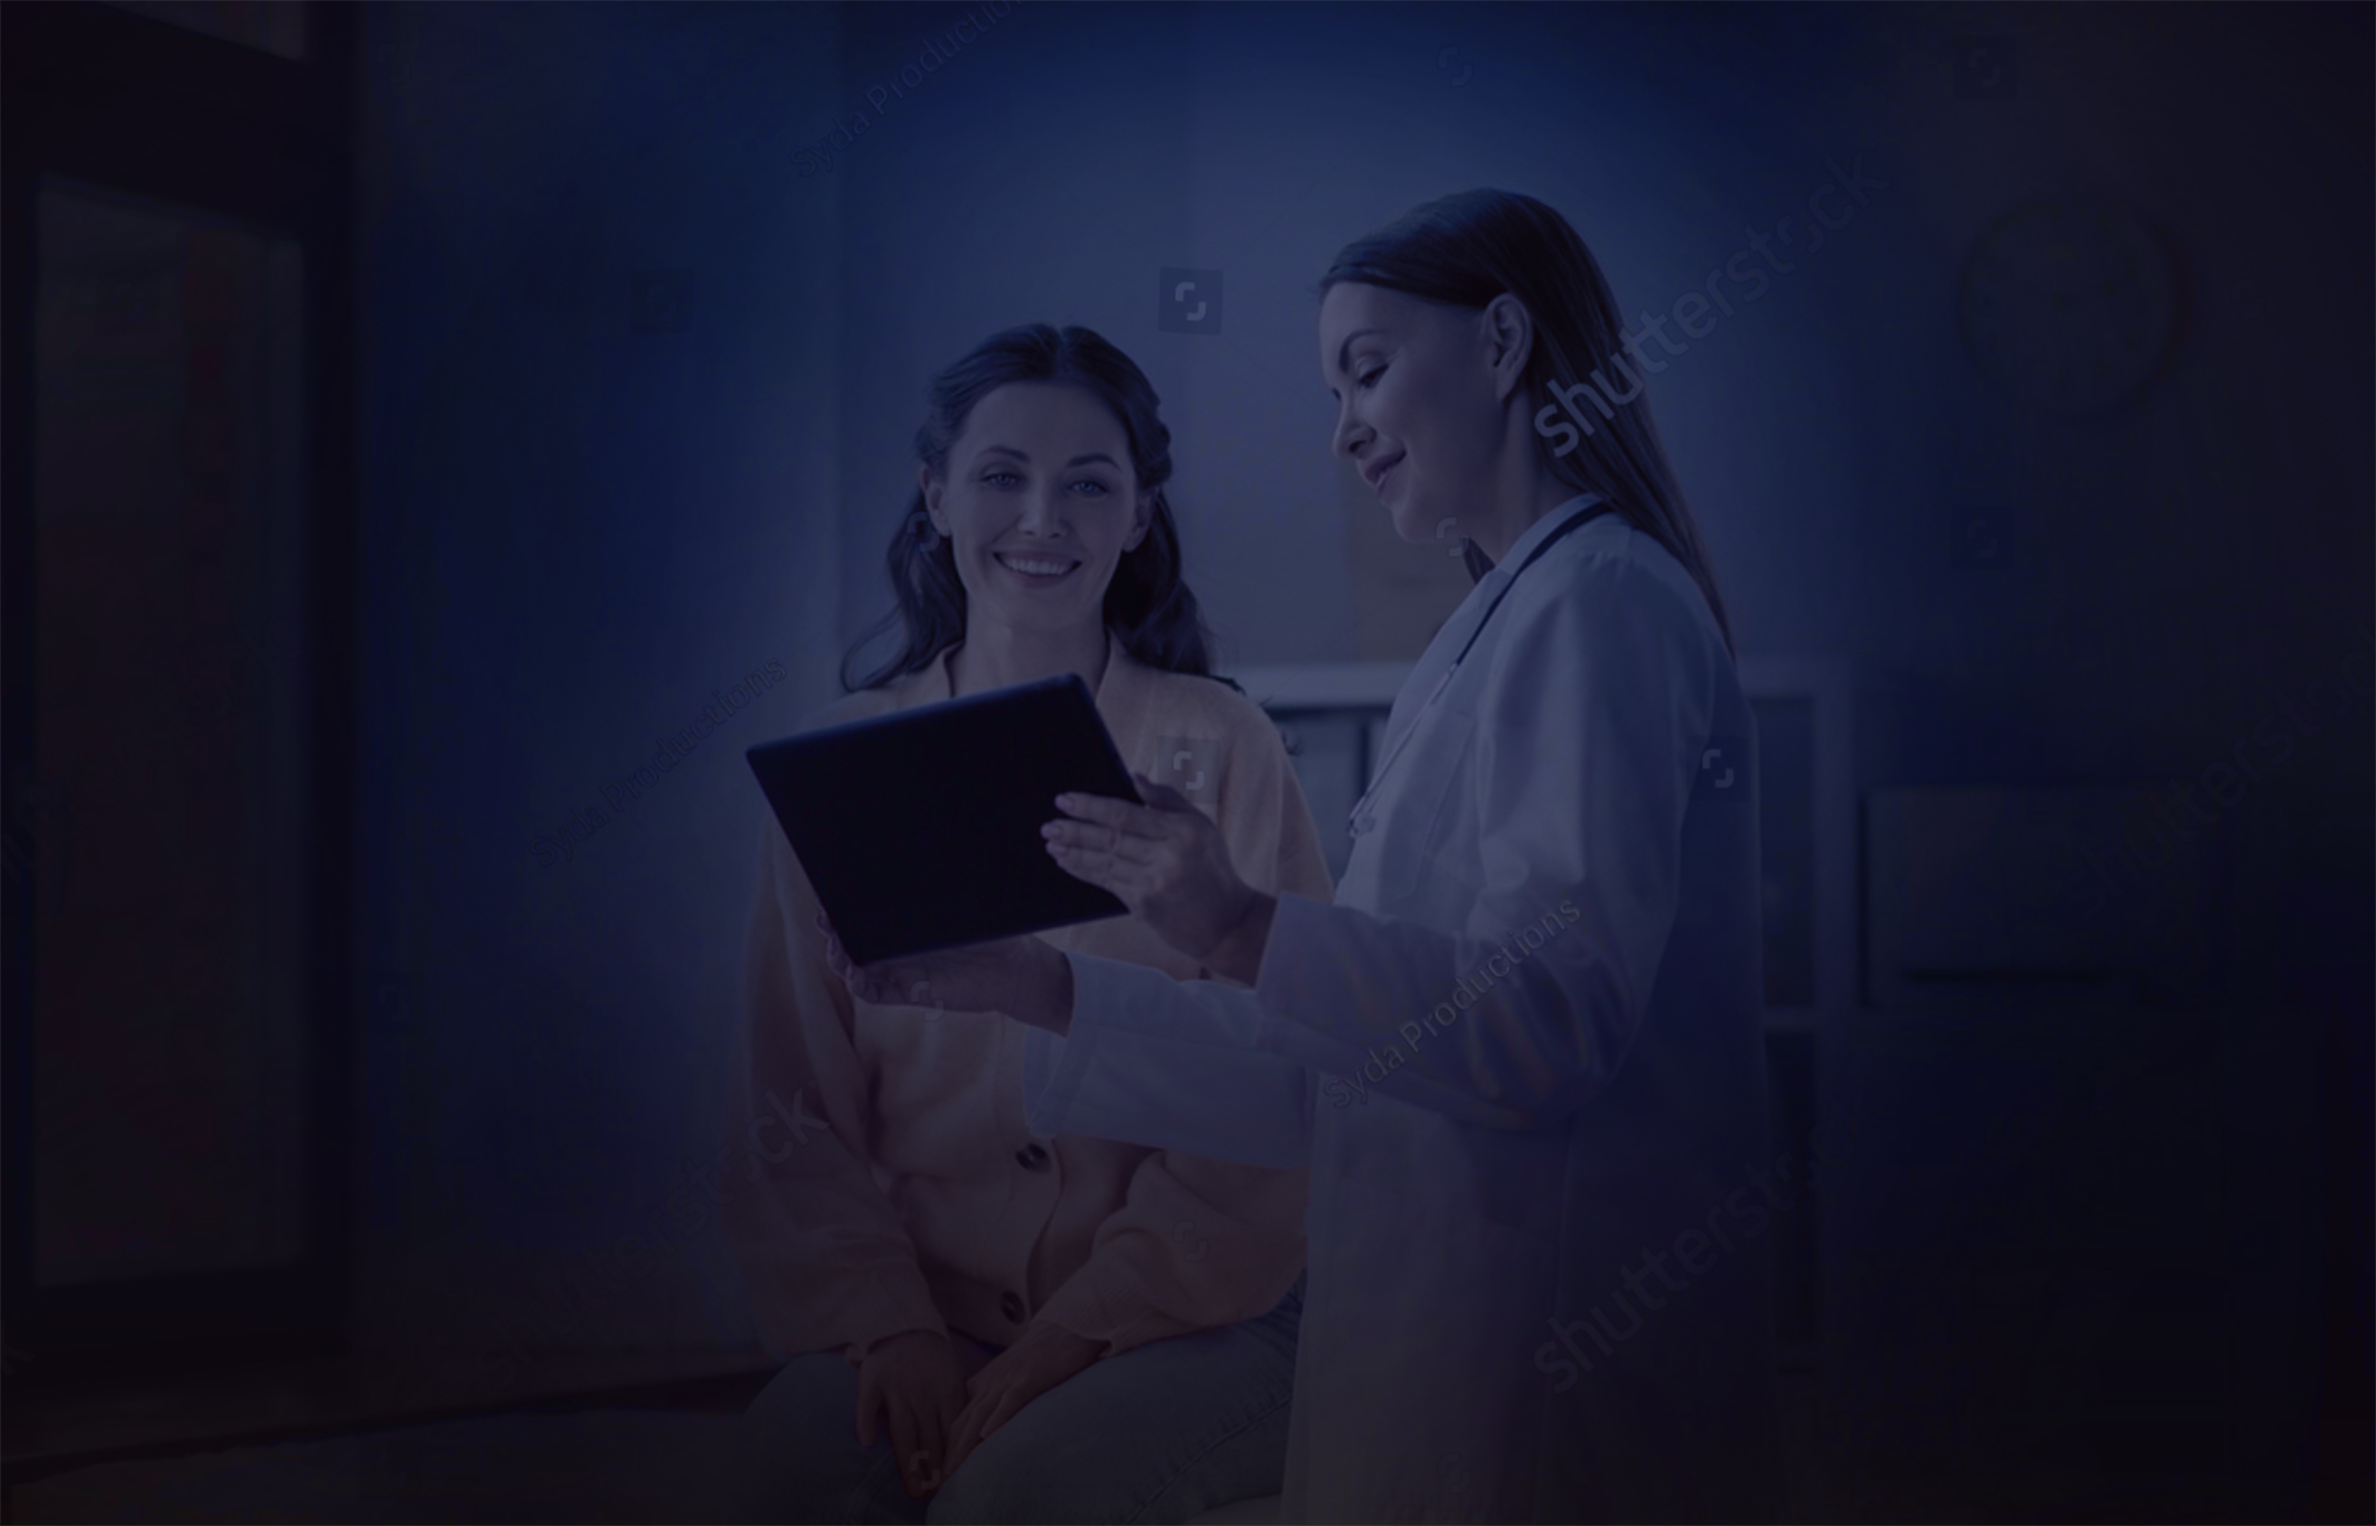
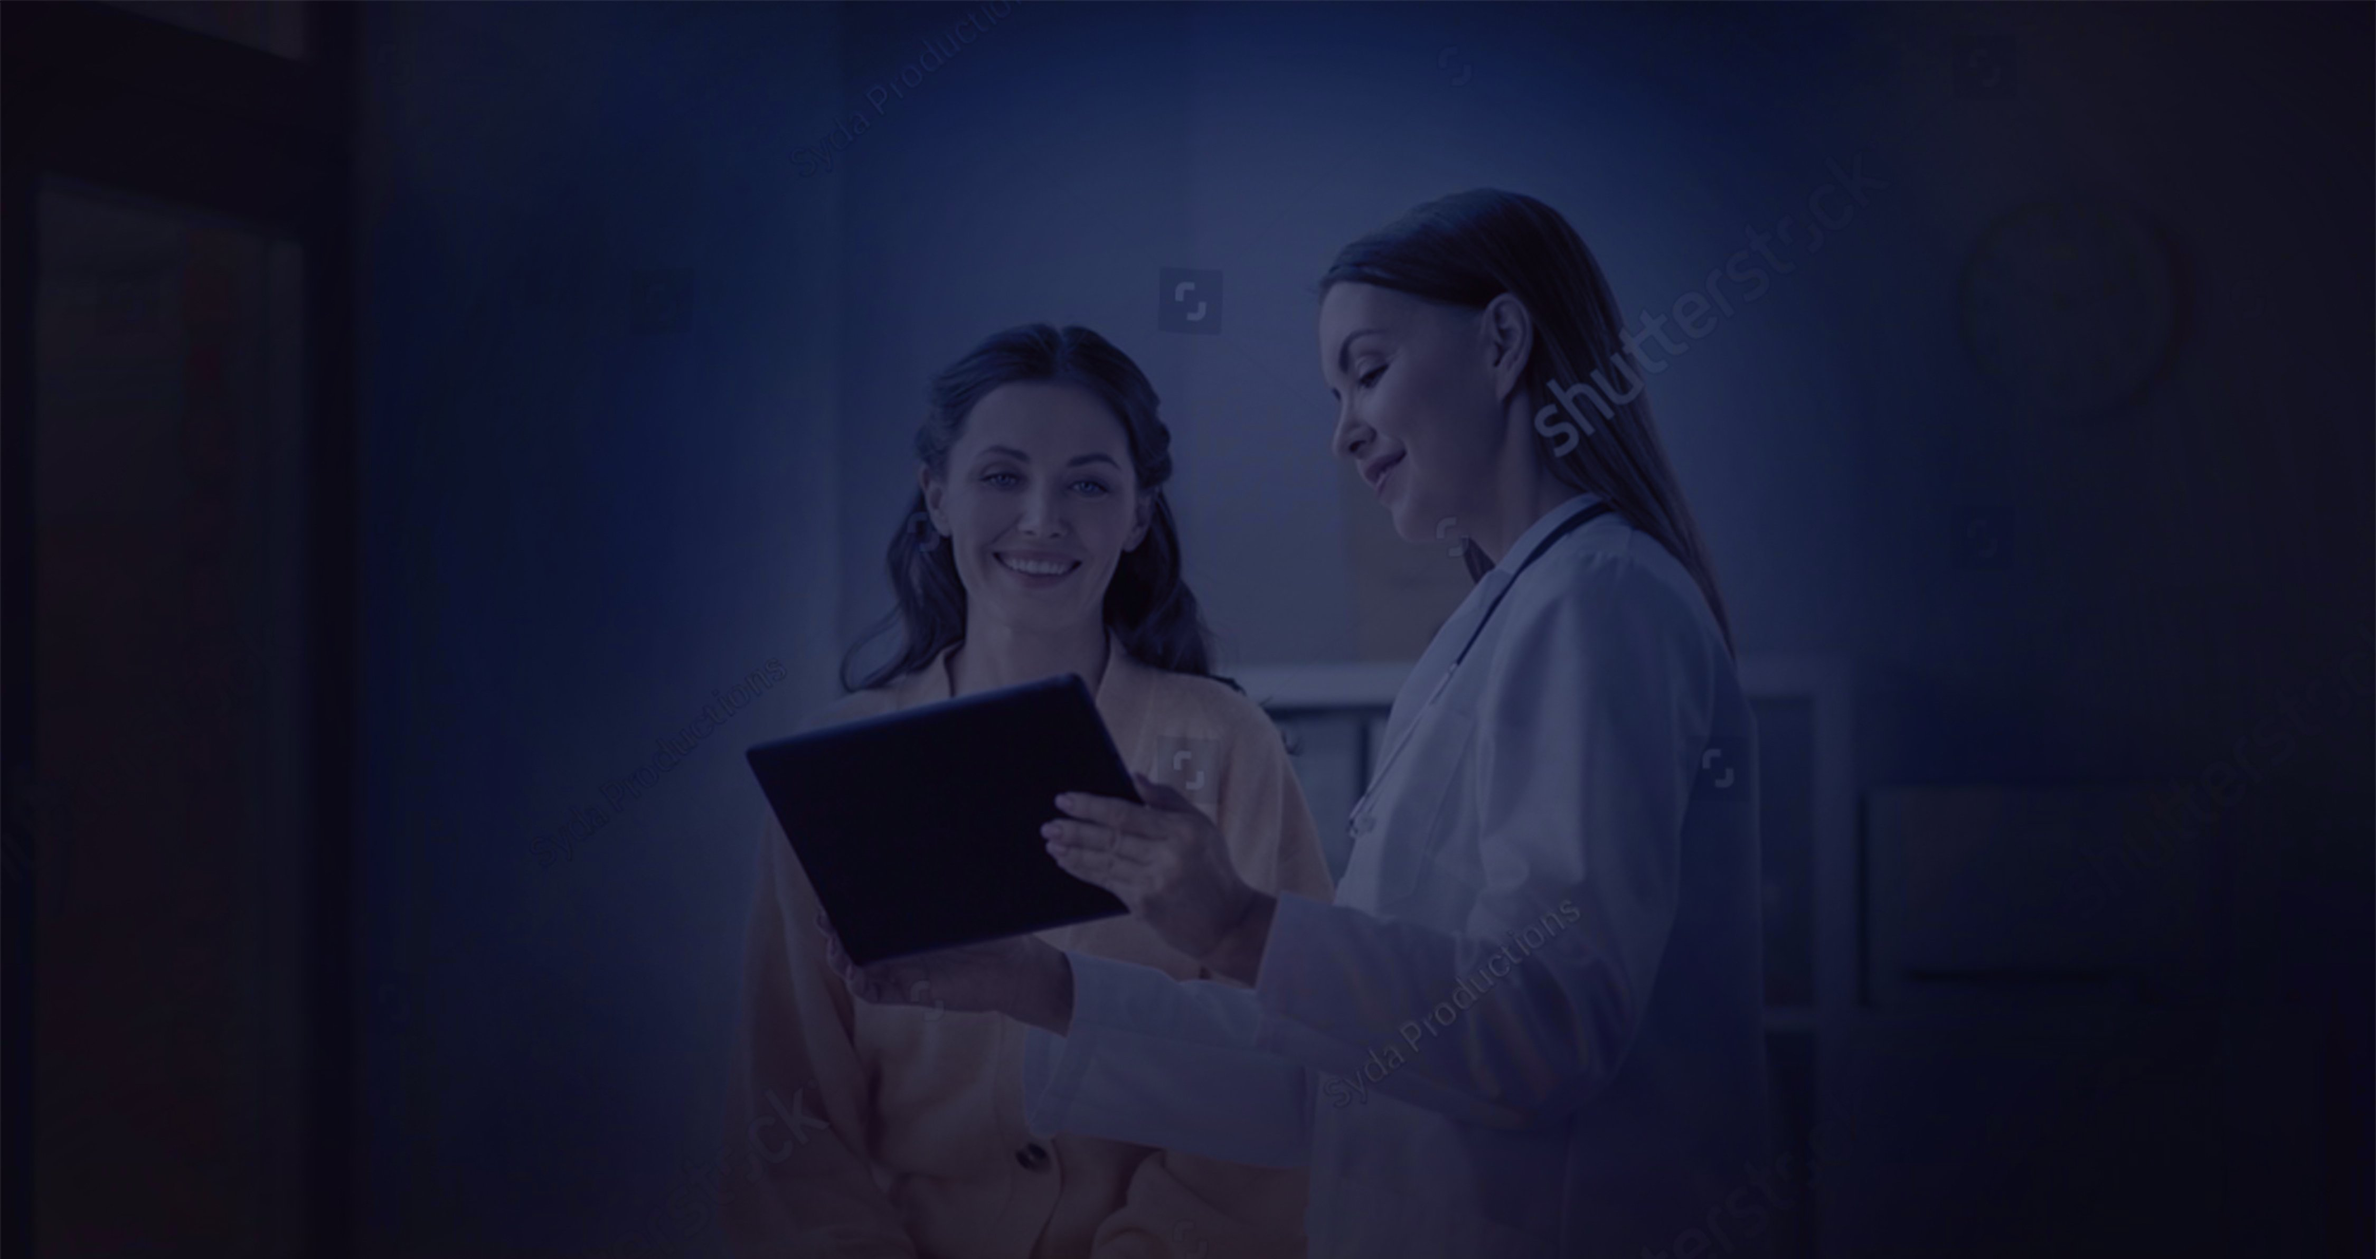
changes

Changed region(s): [[0.3111, 0.1242, 0.7467, 0.9933], [0.2489, 0.9002, 0.3111, 0.9312], [0.4978, 0.6829, 0.5289, 0.7139]]

diff --git a/src/components/Know-more/Hero.jsx b/src/components/Know-more/Hero.jsx
@@ -2,8 +2,8 @@ import React from "react";
 
 function Hero() {
   return (
-    <div className="container-fluid text-center know-more-hero m-auto d-flex align-items-center justify-content-center">
-      <div>
+    <div className="container-fluid  know-more-hero m-auto d-flex align-items-center">
+      <div className="container">
         <h1 className="text-white">Know More</h1>
         <p className="text-white">
           Our services are designed to address a wide range of <br></br>pain issues, from

diff --git a/src/app/globals.css b/src/app/globals.css
@@ -184,9 +184,9 @@ h1 {
 }
 .know-more-hero{
   background: url(/images/know-more.jpg);
-   background-position: center;
+   background-position: top;
    background-size: cover;
-   height: 500px;
+   height: 550px;
    
 }
 /* -----------know more page close-------------- */
